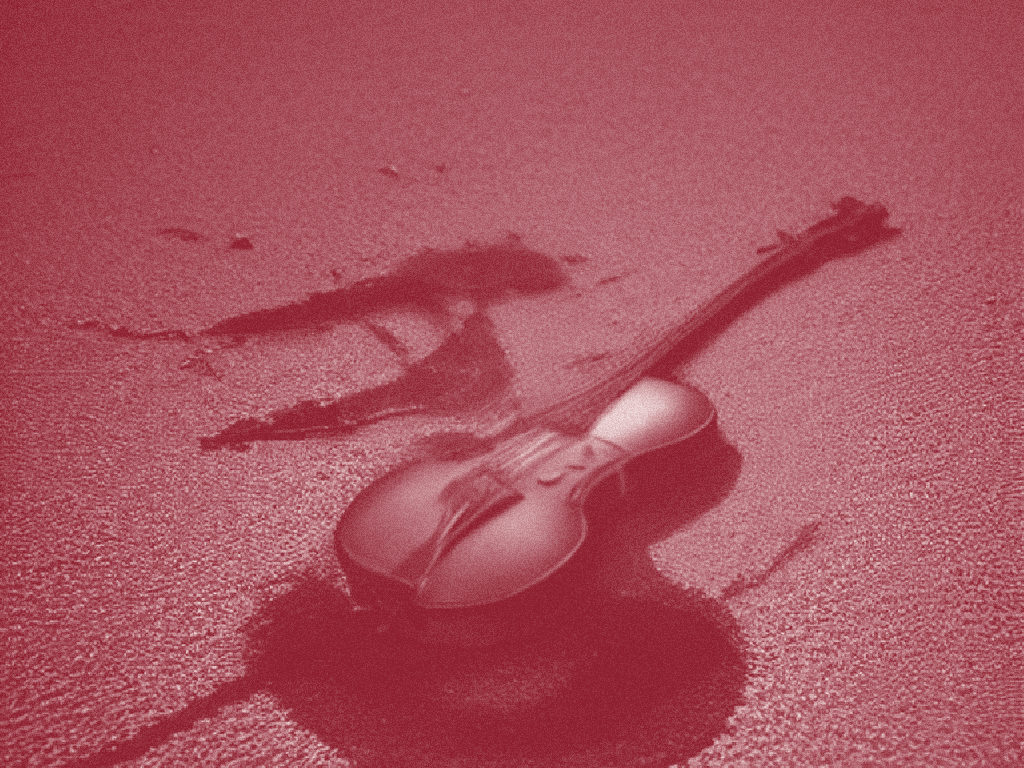
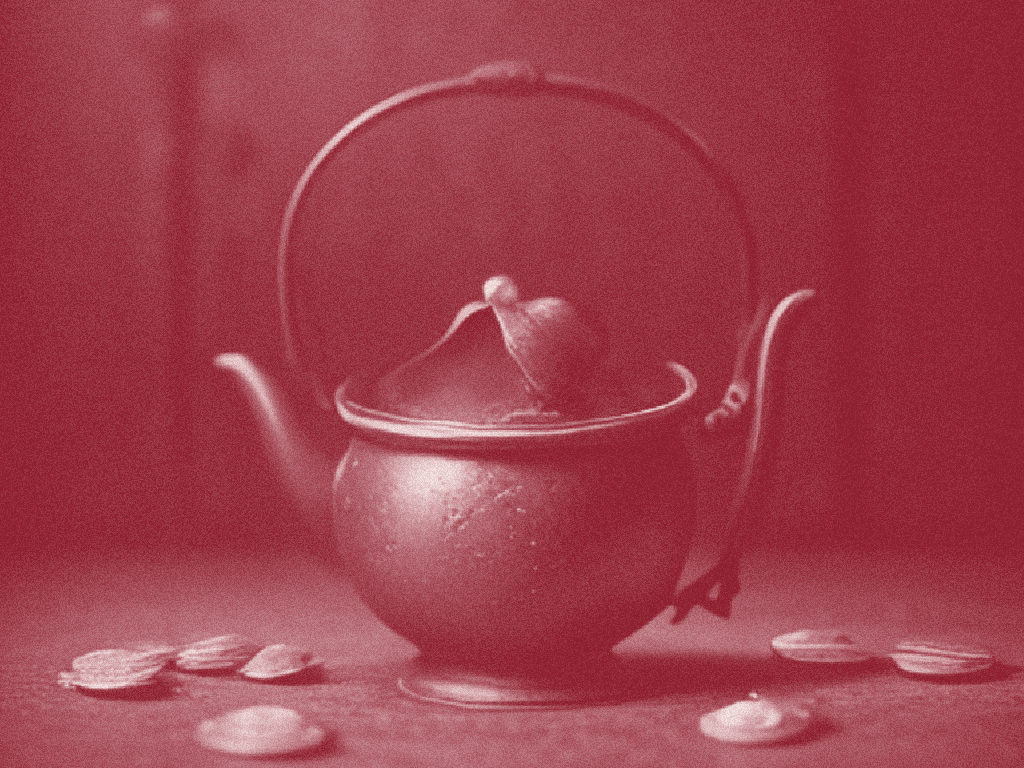
Rank the day's stories, not just the current pull
Each pull now merges into a day-scoped KV store instead of replacing it, so the
top five is drawn from everything seen since midnight. First sighting wins, so a
story keeps the publication time it broke with, and the key carries a 48h TTL.

This is what corroboration ranking wanted all along. A single snapshot catches
one outlet on a story that six will have run by evening, so scoring a lone pull
consistently under-rated the day's biggest stories.

Also bounds what counts as today. The feeds carry evergreen pieces days old --
roughly a quarter of the pool was over 24h -- so clusters whose freshest member
is more than 30 hours old are dropped. The filter is on the cluster rather than
the article, so a story still being covered keeps every outlet that ever ran it
while one that has gone quiet falls off, with a fallback to the full set so a
thin day cannot leave gaps.

The day bucket is keyed in the display timezone, so "today" on the page matches
the reader's day.

diff --git a/index.html b/index.html
@@ -5,22 +5,22 @@
 <meta name="viewport" content="width=device-width, initial-scale=1">
 <title>Latest News</title>
 <link rel="canonical" href="https://news.jach.me/">
-<meta name="description" content="Every two hours this page pulls six publisher feeds, ranks the stories by how many independent outlets ran each one.">
+<meta name="description" content="Every two hours this page pulls six publisher feeds and ranks the day&#39;s stories by how many independent outlets ran each one.">
 <meta name="twitter:card" content="summary_large_image">
 <meta name="twitter:title" content="5 current world news">
-<meta name="twitter:description" content="Every two hours this page pulls six publisher feeds, ranks the stories by how many independent outlets ran each one.">
+<meta name="twitter:description" content="Every two hours this page pulls six publisher feeds and ranks the day&#39;s stories by how many independent outlets ran each one.">
 <meta name="twitter:creator" content="@michaeljach">
 <meta name="twitter:image" content="https://news.jach.me/lead.jpg">
-<meta name="twitter:image:alt" content="Editorial illustration: A lone, charred violin lying on a cracked desert floor, smoke curling upward">
+<meta name="twitter:image:alt" content="Editorial illustration: A cracked porcelain teacup spilling golden coins onto a rusted iron gate">
 <meta property="og:type" content="website">
 <meta property="og:site_name" content="Latest News">
 <meta property="og:url" content="https://news.jach.me/">
 <meta property="og:title" content="5 current world news">
-<meta property="og:description" content="Every two hours this page pulls six publisher feeds, ranks the stories by how many independent outlets ran each one.">
+<meta property="og:description" content="Every two hours this page pulls six publisher feeds and ranks the day&#39;s stories by how many independent outlets ran each one.">
 <meta property="og:image" content="https://news.jach.me/lead.jpg">
 <meta property="og:image:width" content="1024">
 <meta property="og:image:height" content="768">
-<meta property="og:image:alt" content="Editorial illustration: A lone, charred violin lying on a cracked desert floor, smoke curling upward">
+<meta property="og:image:alt" content="Editorial illustration: A cracked porcelain teacup spilling golden coins onto a rusted iron gate">
 <link rel="preconnect" href="https://fonts.googleapis.com">
 <link rel="preconnect" href="https://fonts.gstatic.com" crossorigin>
 <link href="https://fonts.googleapis.com/css2?family=Playfair+Display:wght@400;500;600&display=swap" rel="stylesheet">
@@ -142,37 +142,37 @@
   <main>
     <div class="page">
       <figure class="banner">
-        <img class="art" src="lead.jpg" width="1024" height="768" alt="Editorial illustration: A lone, charred violin lying on a cracked desert floor, smoke curling upward">
+        <img class="art" src="lead.jpg" width="1024" height="768" alt="Editorial illustration: A cracked porcelain teacup spilling golden coins onto a rusted iron gate">
       </figure>
       <div class="column">
       <article class="story story--lead">
-        <h2><a href="https://www.npr.org/2026/08/23/g-s1-139729/thousands-forced-to-evacuate-parts-of-reno-nevada-as-new-wildfire-rages" rel="noopener">Thousands forced to evacuate parts of Reno, Nevada, as new wildfire rages</a></h2>
+        <h2><a href="https://www.npr.org/2026/08/24/g-s1-139743/treasury-secretary-scott-bessent-to-unveil-new-economic-sanctions-on-iran" rel="noopener">Treasury Secretary Scott Bessent unveils new U.S. economic sanctions on Iran</a></h2>
         <p class="meta source">NPR</p>
       </article>
 
       <article class="story">
-        <h2><a href="https://news.sky.com/story/imran-khan-must-get-humane-treatment-and-proper-medical-care-in-prison-ex-cricket-captains-urge-pakistan-13576496" rel="noopener">Cricket legends urge Pakistan to provide &#39;proper medical care&#39; for Imran Khan</a></h2>
-        <p class="meta source">Sky News</p>
+        <h2><a href="https://www.theguardian.com/uk-news/2026/aug/24/prince-harry-quits-board-wildlife-charity-african-parks-human-rights-abuses" rel="noopener">Prince Harry quits board of wildlife charity after rangers’ human rights abuses</a></h2>
+        <p class="meta source">The Guardian</p>
       </article>
       <article class="story">
-        <h2><a href="https://www.aljazeera.com/news/2026/8/24/uk-to-help-ukraine-build-storm-shadow-long-range-missiles-why-it-matters?traffic_source=rss" rel="noopener">UK to help Ukraine build Storm Shadow long-range missiles: Why it matters</a></h2>
-        <p class="meta source">Al Jazeera</p>
+        <h2><a href="https://www.bbc.co.uk/news/articles/clyqypkrzq5o?at_medium=RSS&amp;at_campaign=rss" rel="noopener">UK PM Burnham vows support for Ukraine despite &#39;outrageous threats&#39; from Russia</a></h2>
+        <p class="meta source">BBC News</p>
       </article>
       <article class="story">
         <h2><a href="https://www.npr.org/2026/08/24/g-s1-139734/sonya-massey-convicted-deputy" rel="noopener">Sean Grayson, former deputy convicted of killing Sonya Massey, dies in prison, lawyer says</a></h2>
         <p class="meta source">NPR</p>
       </article>
       <article class="story">
-        <h2><a href="https://news.sky.com/story/dutch-broadcaster-avrotros-to-boycott-2027-eurovision-song-contest-13576558" rel="noopener">Dutch broadcaster to boycott Eurovision 2027</a></h2>
-        <p class="meta source">Sky News</p>
+        <h2><a href="https://www.bbc.co.uk/news/articles/c36lnekj659o?at_medium=RSS&amp;at_campaign=rss" rel="noopener">King of Norway&#39;s health has worsened, palace says</a></h2>
+        <p class="meta source">BBC News</p>
       </article>
       </div>
     </div>
 
     <footer>
-      <p class="meta">Monday, August 24, 2026 &middot; 5:33 PM</p>
-      <p class="meta">6 feeds · ranked by cross-outlet coverage</p>
-      <p class="about">Every two hours this page pulls six publisher feeds, ranks the stories by how many independent outlets ran each one. Made by <a href="https://x.com/michaeljach" rel="noopener">@michaeljach</a></p>
+      <p class="meta">Monday, August 24, 2026 &middot; 10:09 PM</p>
+      <p class="meta">6 feeds · 126 stories today</p>
+      <p class="about">Every two hours this page pulls six publisher feeds and ranks the day&#39;s stories by how many independent outlets ran each one. Made by <a href="https://x.com/michaeljach" rel="noopener">@michaeljach</a></p>
     </footer>
   </main>
 </body>

diff --git a/src/news.js b/src/news.js
@@ -11,8 +11,8 @@ export const FEED_TIMEOUT_MS = 20_000;
 export const TIMEZONE = 'Europe/Warsaw';
 
 export const ABOUT =
-  'Every two hours this page pulls six publisher feeds, ranks the stories by how ' +
-  'many independent outlets ran each one.';
+  'Every two hours this page pulls six publisher feeds and ranks the day\'s ' +
+  'stories by how many independent outlets ran each one.';
 
 export const AUTHOR = { handle: '@michaeljach', url: 'https://x.com/michaeljach' };
 export const SITE = 'https://news.jach.me';
@@ -139,6 +139,31 @@ const keyWords = (title) =>
       .filter((w) => w.length > 2 && !STOPWORDS.has(w))
   );
 
+// Stories accumulate over the day rather than being re-derived from each pull.
+// Corroboration is the ranking signal, and it only becomes meaningful with time:
+// a single snapshot catches one outlet on a story that six will have run by
+// evening.
+export const MAX_DAY_ITEMS = 900;
+
+// en-CA formats as YYYY-MM-DD. Bucketing by the display timezone means "today"
+// on the page matches the day the reader is actually having.
+export function dayKey(at, timeZone = TIMEZONE) {
+  return at.toLocaleDateString('en-CA', { timeZone });
+}
+
+// First sighting wins, so a story keeps the publication time it broke with
+// rather than being refreshed to the latest pull.
+export function mergeItems(existing, fresh) {
+  const byUrl = new Map();
+  for (const item of existing) {
+    if (item?.url && item.title) byUrl.set(item.url, item);
+  }
+  for (const item of fresh) {
+    if (item?.url && item.title && !byUrl.has(item.url)) byUrl.set(item.url, item);
+  }
+  return [...byUrl.values()].sort((a, b) => b.date - a.date).slice(0, MAX_DAY_ITEMS);
+}
+
 // Group headlines that describe the same event. The cluster signature stays
 // fixed to the first headline's words; letting it grow would make a cluster
 // match everything after a few merges.
@@ -176,11 +201,27 @@ function scoreCluster(c, newest) {
 }
 
 // Cap any one outlet so a prolific feed cannot fill the page on its own.
+export const DAY_WINDOW_HOURS = 30;
+
 export function selectTopStories(items) {
   const newest = Math.max(...items.map((i) => i.date).filter(Boolean), Date.now());
-  const ranked = cluster(items)
-    .map((c) => ({ ...c, score: scoreCluster(c, newest) }))
+
+  const scored = cluster(items)
+    .map((c) => ({
+      ...c,
+      score: scoreCluster(c, newest),
+      freshest: Math.max(...c.items.map((i) => i.date)),
+    }))
     .sort((a, b) => b.score - a.score);
+
+  // Feeds carry evergreen pieces days old, which are not "today" by any reading.
+  // Filtering the cluster rather than the article means a story that is still
+  // being covered keeps every outlet that ever ran it, while one that has gone
+  // quiet drops out. Falls back to the full set if a thin day would leave gaps.
+  const withinDay = scored.filter(
+    (c) => !c.freshest || (newest - c.freshest) / 3_600_000 <= DAY_WINDOW_HOURS
+  );
+  const ranked = withinDay.length >= COUNT ? withinDay : scored;
 
   const maxPerSource = Math.max(1, Math.ceil(COUNT / 2));
   const used = new Map();

diff --git a/src/worker.js b/src/worker.js
@@ -14,6 +14,8 @@ import {
   leadArtwork,
   render,
   treat,
+  mergeItems,
+  dayKey,
 } from './news.js';
 
 const PAGE_KEY = 'page:v1';
@@ -82,18 +84,27 @@ export default {
 async function buildAndStore(env) {
   const at = new Date();
 
-  const { items, feedsUsed } = await fetchFeeds();
-  if (!items.length) throw new Error('no feed returned any stories');
+  const { items: fresh, feedsUsed } = await fetchFeeds();
+  if (!fresh.length) throw new Error('no feed returned any stories');
+
+  // Accumulate the day's stories so ranking sees every pull, not just this one.
+  const key = `day:${dayKey(at)}`;
+  const stored = (await env.NEWS.get(key, 'json')) ?? [];
+  const items = mergeItems(stored, fresh);
+  await env.NEWS.put(key, JSON.stringify(items), { expirationTtl: 60 * 60 * 48 });
 
   const picks = selectTopStories(items);
   if (!picks.length) throw new Error('no stories survived filtering');
 
   const art = await makeArtwork(env, picks[0].title);
-  const footer = `${feedsUsed} feeds · ranked by cross-outlet coverage`;
+  const footer = `${feedsUsed} feeds · ${items.length} stories today`;
   const html = render(picks, at, art, footer);
 
   await env.NEWS.put(PAGE_KEY, html);
-  console.log(`built ${picks.length} headlines from ${feedsUsed} feeds, ${html.length} bytes`);
+  console.log(
+    `built ${picks.length} of ${items.length} stories today ` +
+      `(+${fresh.length} this pull, ${feedsUsed} feeds), ${html.length} bytes`
+  );
   return html;
 }
 
